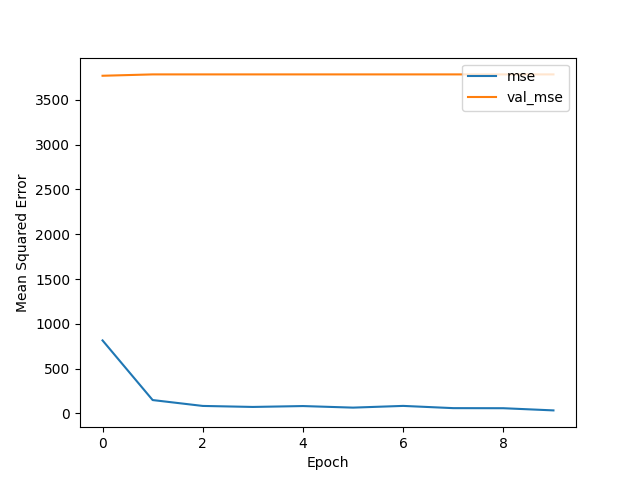
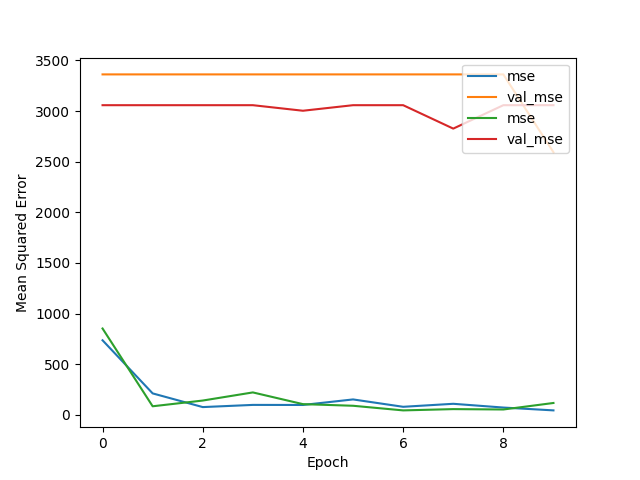
almost complete

diff --git a/cell_counter/resnet.py b/cell_counter/resnet.py
@@ -307,7 +307,7 @@ def evaluate_model(model, name):
     results = model.evaluate(test_im, test_lab, batch_size=1)
 
     # Test against random images
-    df = get_dataset_info()
+    df = get_dataset_info(path)
     df = df.sample(n=50, replace=False)
 
     print("Evaluating against random images...")
@@ -315,7 +315,7 @@ def evaluate_model(model, name):
     results = model.evaluate(test_im, test_lab, batch_size=1)
 
 if __name__ == "__main__":
-    
+    '''
     model = resnet50()
     
     compile_resnet(model)
@@ -323,8 +323,8 @@ if __name__ == "__main__":
     training_hist, _ = run_resnet(
         model, epochs=10, image_number=250, path='C:\\Users\\User\\Documents\\BBC005Data\\BBBC005_v1_images\\',validation_split=0.1, checkpointing=False
     )
-    
     '''
+    
     print('~~~~~~~~~~~~~~~~~~~~~~~~~~~~~~~~~~~~~~~~~~~~~~~~~~~~~~~~~~~~~~~~~~~~~~~~~~~~~~~')
     print('High training size, no blur')
     model = resnet50()
@@ -332,10 +332,39 @@ if __name__ == "__main__":
     training_hist, _ = run_resnet(
         model, epochs=10,path='C:\\Users\\User\\Documents\\BBC005Data\\BBBC005_v1_images\\', image_number=1000, validation_split=0.1, checkpointing=False
     )
-    '''
+    
     evaluate_model(model, 'resnet_h_n')
     
-    
+    print('~~~~~~~~~~~~~~~~~~~~~~~~~~~~~~~~~~~~~~~~~~~~~~~~~~~~~~~~~~~~~~~~~~~~~~~~~~~~~~~')
+    print('High training size, no blur')
+    model = resnet50()
+    compile_resnet(model)
+    training_hist, _ = run_resnet(
+        model, epochs=10, path='C:\\Users\\User\\Documents\\BBC005Data\\BBBC005_v1_images\\', image_number=1000, validation_split=0.1, checkpointing=False
+    )
+    evaluate_model(model, 'cnn_h_n')
+
+    print('~~~~~~~~~~~~~~~~~~~~~~~~~~~~~~~~~~~~~~~~~~~~~~~~~~~~~~~~~~~~~~~~~~~~~~~~~~~~~~~')
+    print('Low training size, random blur')
+    model = resnet50()
+    compile_resnet(model)
+    df = get_dataset_info()
+    df = df.sample(n=250, replace=False)
+    training_hist, _ = run_resnet(
+        model, epochs=10,path='C:\\Users\\User\\Documents\\BBC005Data\\BBBC005_v1_images\\', image_number=250, validation_split=0.1, checkpointing=False, df=df
+    )
+    evaluate_model(model, 'cnn_l_r')
+
+    print('~~~~~~~~~~~~~~~~~~~~~~~~~~~~~~~~~~~~~~~~~~~~~~~~~~~~~~~~~~~~~~~~~~~~~~~~~~~~~~~')
+    print('High training size, random blur')
+    model = resnet50()
+    compile_resnet(model)
+    df = get_dataset_info()
+    df = df.sample(n=1000, replace=False)
+    training_hist, _ = run_resnet(
+        model, epochs=10,path='C:\\Users\\User\\Documents\\BBC005Data\\BBBC005_v1_images\\', image_number=1000, validation_split=0.1, checkpointing=False, df=df
+    )
+    evaluate_model(model, 'cnn_h_r')
     
     
     
